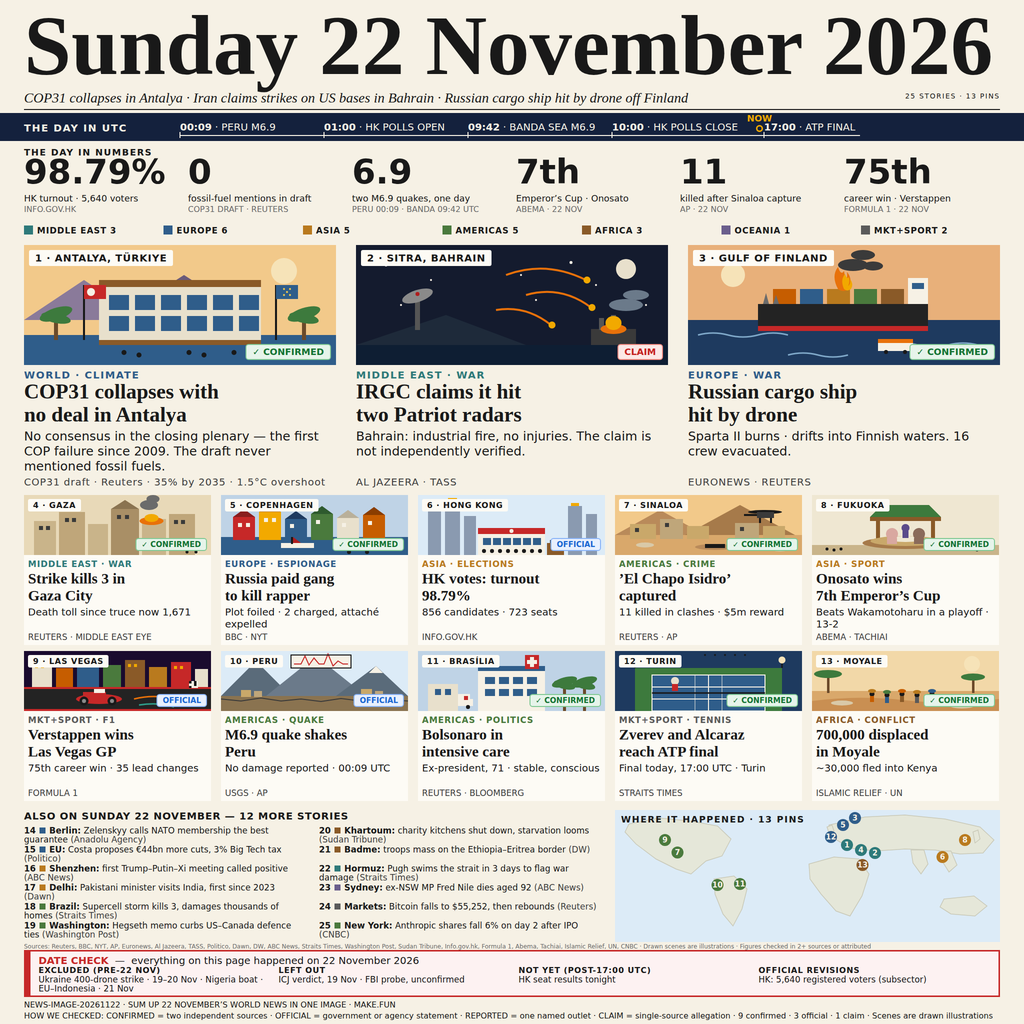
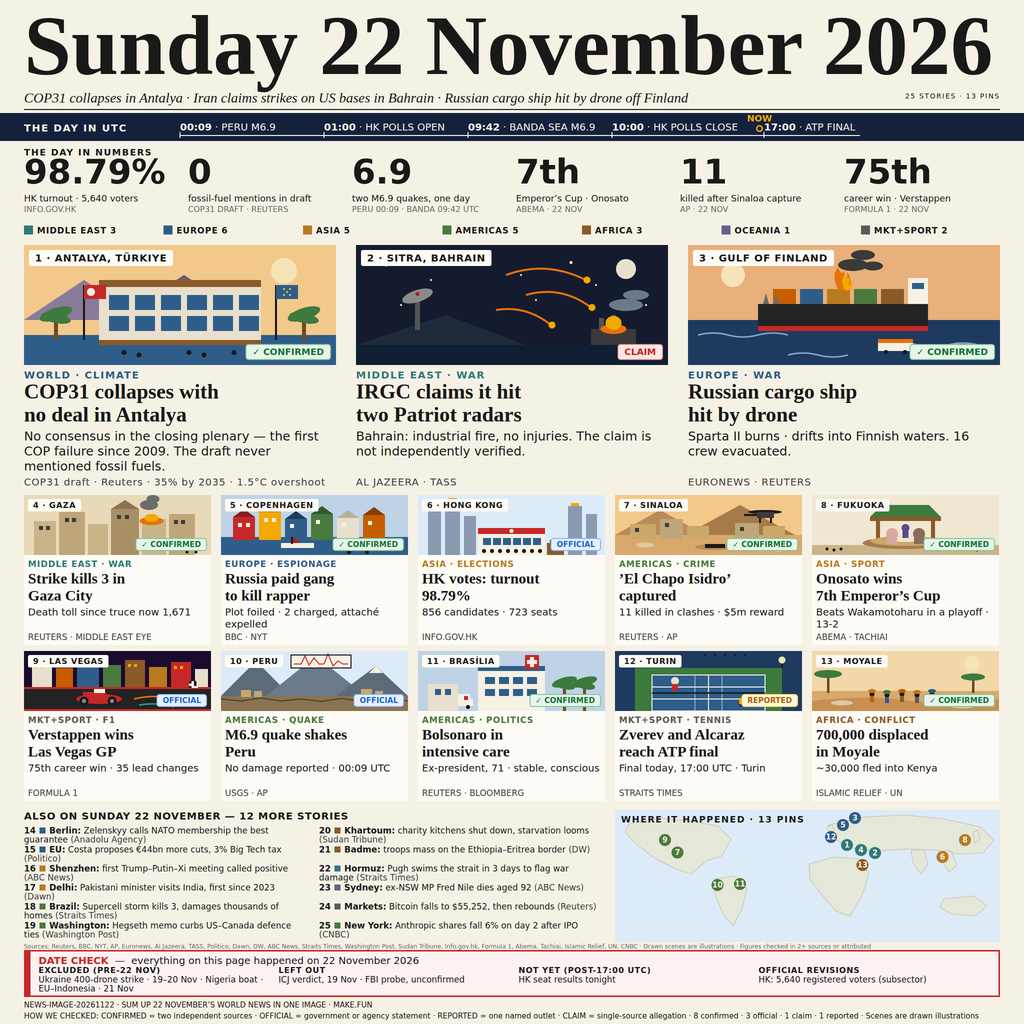
v16.1: card 12 Turin CONFIRMED -> REPORTED (single source: STRAITS TIMES); tally 8 confirmed · 3 official · 1 claim · 1 reported; footer 16px -> 15px so the longer tally does not clip 'illustrations' at the canvas edge (v16 ended x1984, 16px ran to x2047, 15px ends x1956); self-checks now assert eve

Changed region(s): [[0.0312, 0.9688, 0.9688, 1.0], [0.7188, 0.6562, 0.7812, 0.6875]]

diff --git a/build/front.html b/build/front.html
@@ -70,7 +70,7 @@ body { width:2048px; height:2048px; background:#F6F1E5; font-family:'DejaVu Sans
 .dc .col .h { font-weight:bold; font-size:16px; letter-spacing:1px; }
 .dc .col .h .notyet { color:#D98E00; }
 /* ---- FOOTER 1996-2034 ---- */
-.foot { position:absolute; left:48px; width:1952px; font-size:16px; line-height:16px; white-space:nowrap; }
+.foot { position:absolute; left:48px; width:1952px; font-size:15px; line-height:16px; white-space:nowrap; }
 </style></head><body>
 
 <!-- MASTHEAD 0-218 : v16 — dek re-strung to the new top 3 (COP31 · Bahrain · Sparta II); 25 stories, 13 pins -->
@@ -236,11 +236,11 @@ body { width:2048px; height:2048px; background:#F6F1E5; font-family:'DejaVu Sans
 <div class="src">REUTERS &middot; BLOOMBERG</div>
 </div>
 
-<!-- CARD 12 : Turin (story 35, CONFIRMED) — tennis court, net, two players -->
+<!-- CARD 12 : Turin (story 35, REPORTED) — tennis court, net, two players -->
 <div class="card2" style="left:1230px; top:1302px;">
 <svg class="illus" width="374" height="120" viewBox="0 0 374 120"><rect width="374" height="120" fill="#1E3A5F"/><g><rect x="40" y="34" width="294" height="86" fill="#3D7A3D"/><rect x="74" y="48" width="226" height="72" fill="#2F5D8A"/><g stroke="#F6F1E5" stroke-width="2"><rect x="74" y="48" width="226" height="72" fill="none"/><line x1="187" y1="48" x2="187" y2="120"/><line x1="74" y1="72" x2="300" y2="72"/><line x1="74" y1="96" x2="300" y2="96"/></g><g stroke="#F6F1E5" stroke-width="1"><line x1="160" y1="48" x2="160" y2="120"/><line x1="214" y1="48" x2="214" y2="120"/></g><line x1="74" y1="84" x2="300" y2="84" stroke="#191919" stroke-width="3"/></g><g><circle cx="120" cy="60" r="8" fill="#E8E0CC"/><rect x="114" y="66" width="12" height="14" fill="#C62828"/><circle cx="254" cy="104" r="8" fill="#3A3A3A"/><rect x="248" y="94" width="12" height="12" fill="#F2A900"/><ellipse cx="264" cy="100" rx="8" ry="5" fill="#8A8A8A"/></g><g><line x1="40" y1="20" x2="40" y2="34" stroke="#191919" stroke-width="3"/><line x1="334" y1="20" x2="334" y2="34" stroke="#191919" stroke-width="3"/><circle cx="40" cy="18" r="7" fill="#F6E3B8"/><circle cx="334" cy="18" r="7" fill="#F6E3B8"/></g><g fill="#191919"><circle cx="180" cy="8" r="2"/><circle cx="200" cy="8" r="2"/><circle cx="220" cy="8" r="2"/><circle cx="240" cy="8" r="2"/><circle cx="260" cy="8" r="2"/></g></svg>
 <div class="kickpill">12 &middot; TURIN</div>
-<div class="badgepill b-conf">&#10003; CONFIRMED</div>
+<div class="badgepill b-rep">REPORTED</div>
 <div class="region" style="color:#5A5A5A;">MKT+SPORT &middot; TENNIS</div>
 <div class="head">Zverev and Alcaraz<br>reach ATP final</div>
 <div class="dek">Final today, 17:00 UTC &middot; Turin</div>
@@ -324,6 +324,6 @@ body { width:2048px; height:2048px; background:#F6F1E5; font-family:'DejaVu Sans
 </div>
 
 <div class="foot" style="top:2002px;">NEWS-IMAGE-20261122 &middot; SUM UP 22 NOVEMBER&rsquo;S WORLD NEWS IN ONE IMAGE &middot; MAKE.FUN</div>
-<div class="foot" style="top:2024px;">HOW WE CHECKED: CONFIRMED = two independent sources &middot; OFFICIAL = government or agency statement &middot; REPORTED = one named outlet &middot; CLAIM = single-source allegation &middot; 9 confirmed &middot; 3 official &middot; 1 claim &middot; Scenes are drawn illustrations</div>
+<div class="foot" style="top:2024px;">HOW WE CHECKED: CONFIRMED = two independent sources &middot; OFFICIAL = government or agency statement &middot; REPORTED = one named outlet &middot; CLAIM = single-source allegation &middot; 8 confirmed &middot; 3 official &middot; 1 claim &middot; 1 reported &middot; Scenes are drawn illustrations</div>
 
 </body></html>

diff --git a/main.py b/main.py
@@ -78,7 +78,7 @@ no date other than 22 Nov on any story, number, or card):
   INFO.GOV.HK); 7 Sinaloa (18, CONFIRMED, REUTERS · AP); 8 Fukuoka
   (16, CONFIRMED, ABEMA · TACHIAI); 9 Las Vegas (34, OFFICIAL,
   FORMULA 1); 10 Peru (17, OFFICIAL, USGS · AP); 11 Brasilia (19,
-  CONFIRMED, REUTERS · BLOOMBERG); 12 Turin (35, CONFIRMED, STRAITS
+  CONFIRMED, REUTERS · BLOOMBERG); 12 Turin (35, REPORTED, STRAITS
   TIMES); 13 Moyale (27, CONFIRMED, ISLAMIC RELIEF · UN).
 - ALSO ON 14-25: 14 Berlin Zelenskyy (06, Anadolu Agency); 15 EU
   Costa budget (07, Politico); 16 Shenzhen Trump-Putin-Xi (12, ABC
@@ -91,16 +91,24 @@ no date other than 22 Nov on any story, number, or card):
 
 Badge tally CHANGE (flagged to the parent): v15.3's footer tally
 "6 confirmed · 2 official · 1 claim" counted its 9 badges. v16 has
-13 badged stories, so the tally is recomputed as "9 confirmed · 3
-official · 1 claim" (confirmed: COP31, Sparta II, Gaza, Copenhagen,
-Sinaloa, Onosato, Brasilia, Turin, Moyale; official: HK, Verstappen,
-Peru; claim: Bahrain). Keeping 6·2·1 would be false.
+13 badged stories, so the tally is recomputed as "8 confirmed · 3
+official · 1 claim · 1 reported" (confirmed: COP31, Sparta II, Gaza,
+Copenhagen, Sinaloa, Onosato, Brasilia, Moyale; official: HK,
+Verstappen, Peru; claim: Bahrain; reported: Turin). Keeping 6·2·1
+would be false.
 
-Single-source CONFIRMED note: card 12 (Turin, story 35) prints only
-"STRAITS TIMES" — the research file names no other outlet for story
-35, and its own badge table marks 35 ATP as CONFIRMED (semis
-confirmed; final "today"). The lead is the same pattern (COP31 draft
-text + Reuters = two sources in effect). No source is invented.
+v16.1 fix (parent review): card 12 (Turin, story 35) printed only
+"STRAITS TIMES" under a CONFIRMED badge, but the legend defines
+CONFIRMED as two independent sources — the same contradiction Neon-2
+caught in v15.2. The research file names no other outlet for story
+35, so no source is invented: the badge is demoted to REPORTED
+(one named outlet, exactly what the card is), and the tally moves
+from 9·3·1 to 8·3·1·1. The check below now asserts every CONFIRMED
+badge prints two sources AND that card 12 carries b-rep, so the
+legend can never silently contradict a badge again. Side effect of
+the longer tally: at 16px the footer line ran to x2047 and clipped
+"illustrations" at the canvas edge (v16 ended at x1984), so the
+footer is 15px now (line-height stays 16px, tops do not move).
 
 DATE CHECK: ATP final is a card now (12), so NOT YET is HK seat
 results only. EXCLUDED (PRE-22 NOV): Ukraine 400-drone strike ·
@@ -439,15 +447,19 @@ def check_front() -> None:
     grid_html = html[grid_start:grid_end]
     if "results tonight" in grid_html:
         problems.append("'results tonight' must not be on a card (v16: HK seat results are DATE CHECK NOT YET only)")
-    # the 13 badges: 9 CONFIRMED, 3 OFFICIAL, 1 CLAIM (v16 tally change).
-    if html.count("badgepill b-conf") != 9:
-        problems.append(f"CONFIRMED badges must be 9 (leads 1, 3 + cards 4, 5, 7, 8, 11, 12, 13) (found {html.count('badgepill b-conf')}) (v16)")
+    # the 13 badges: 8 CONFIRMED, 3 OFFICIAL, 1 CLAIM, 1 REPORTED (v16.1 tally change).
+    if html.count("badgepill b-conf") != 8:
+        problems.append(f"CONFIRMED badges must be 8 (leads 1, 3 + cards 4, 5, 7, 8, 11, 13) (found {html.count('badgepill b-conf')}) (v16.1)")
     if html.count("badgepill b-off") != 3:
         problems.append(f"OFFICIAL badges must be 3 (cards 6, 9, 10) (found {html.count('badgepill b-off')}) (v16)")
     if html.count("badgepill b-claim") != 1:
         problems.append(f"CLAIM badges must be 1 (lead 2 Bahrain) (found {html.count('badgepill b-claim')}) (v16)")
+    if html.count("badgepill b-rep") != 1:
+        problems.append(f"REPORTED badges must be 1 (card 12 Turin, single source) (found {html.count('badgepill b-rep')}) (v16.1)")
     if "&#10003; CLAIM" in html:
         problems.append("CLAIM badge must not carry a check mark (winners' legend: only CONFIRMED/OFFICIAL are checked)")
+    if "&#10003; REPORTED" in html:
+        problems.append("REPORTED badge must not carry a check mark (only CONFIRMED carries one on this page) (v16.1)")
     if ".b-conf { background:#E6F4EA; color:#137333; border-color:#81C995; }" not in html:
         problems.append("CONFIRMED capsule colours must be #E6F4EA/#137333/#81C995 (v15 P1, kept in v16)")
     if ".b-off { background:#E8F0FE; color:#1967D2; border-color:#8AB4F8; }" not in html:
@@ -457,9 +469,18 @@ def check_front() -> None:
     if ".b-claim { background:#FCE8E6; color:#C5221F; border-color:#F28B82; }" not in html:
         problems.append("CLAIM capsule colours must be #FCE8E6/#C5221F/#F28B82 (v15 P1, kept in v16)")
     # v15.2 fix 3 (kept): every CONFIRMED card with two research-file
-    # sources prints both. Card 12 (Turin) is the documented exception:
-    # the research file names only Straits Times for story 35, and its
-    # own badge table marks 35 ATP as CONFIRMED — no source is invented.
+    # sources prints both. v16.1: card 12 (Turin) prints only Straits
+    # Times, so it is REPORTED, not CONFIRMED — pin the card-12 block
+    # itself, so a later edit cannot silently re-promote it.
+    c12_start = html.index("<!-- CARD 12")
+    c12_end = html.index("<!-- CARD 13")
+    c12_html = html[c12_start:c12_end]
+    if "badgepill b-rep" not in c12_html:
+        problems.append("card 12 (Turin) must carry the REPORTED badge (single source: STRAITS TIMES) (v16.1)")
+    if "badgepill b-conf" in c12_html:
+        problems.append("card 12 (Turin) must not carry a CONFIRMED badge: one source cannot be CONFIRMED (v16.1)")
+    if "REPORTED" not in c12_html:
+        problems.append("card 12 (Turin) must print the word REPORTED (v16.1)")
     for pair in (
         "EURONEWS &middot; REUTERS",
         "REUTERS &middot; MIDDLE EAST EYE",
@@ -637,12 +658,14 @@ def check_front() -> None:
     if "Nigeria boat capsize" in html:
         problems.append("stale 'Nigeria boat capsize' still present (v15.2 fix 1: shortened to 'Nigeria boat' so both 21-Nov items share one line)")
 
-    # --- v16 footer: tally is 9 confirmed · 3 official · 1 claim (13 badges) ---
-    if html.count("9 confirmed &middot; 3 official &middot; 1 claim") != 1:
+    # --- v16.1 footer: tally is 8 confirmed · 3 official · 1 claim · 1 reported (13 badges) ---
+    if html.count("8 confirmed &middot; 3 official &middot; 1 claim &middot; 1 reported") != 1:
         problems.append(
-            "footer verification tally '9 confirmed · 3 official · 1 claim' "
-            "must appear once (v16: 13 badges, not v15.3's 9)"
+            "footer verification tally '8 confirmed · 3 official · 1 claim · 1 reported' "
+            "must appear once (v16.1: 13 badges, Turin demoted to REPORTED)"
         )
+    if "9 confirmed &middot; 3 official &middot; 1 claim" in html:
+        problems.append("stale v16 tally '9 confirmed · 3 official · 1 claim' still present (v16.1: 8·3·1·1 for 13 badges)")
     if "6 confirmed &middot; 2 official &middot; 1 claim" in html:
         problems.append("stale v15.3 tally '6 confirmed · 2 official · 1 claim' still present (v16: 9·3·1 for 13 badges)")
     if "5 confirmed &middot; 3 official &middot; 1 claim" in html:
@@ -657,6 +680,12 @@ def check_front() -> None:
         problems.append("footer HOW WE CHECKED legend missing (v16)")
     if "Scenes are drawn illustrations" not in html:
         problems.append("footer must say 'Scenes are drawn illustrations' (v16)")
+    # v16.1: the tally grew by 13 chars ("· 1 reported") and at 16px the
+    # line ran to x2047, clipping "illustrations" at the canvas edge
+    # (v16 ended at x1984). 15px restores the margin; line-height stays
+    # 16px so the 2002/2024 tops do not move.
+    if ".foot { position:absolute; left:48px; width:1952px; font-size:15px; line-height:16px; white-space:nowrap; }" not in html:
+        problems.append("footer must be 15px (v16.1: the longer tally clips at 16px)")
 
     # --- v16 red: #B01E1E is illustration-only now (radar dot + boat sail) ---
     red_uses = html.count("#B01E1E")
@@ -698,7 +727,7 @@ def check_front() -> None:
         f"front.html v16 check ok: 3-column leads + 2x5 top-image grid (13 scene illustrations, badges on the art); 6 numbers, all 22 Nov; "
         f"3 leads + {cards} cards + 12 list rows = 25 slots; 13 map pins on real continents "
         f"(ANTALYA < GAZA < BAH < HKG, true lat order); timeline dark bar, NOW on the 17:00 tick; DATE CHECK red box, ATP is a card now; "
-        f"tally 9 confirmed · 3 official · 1 claim; red #B01E1E x2; footer ends 2040"
+        f"tally 8 confirmed · 3 official · 1 claim · 1 reported; red #B01E1E x2; footer ends 2040"
     )
 
 
